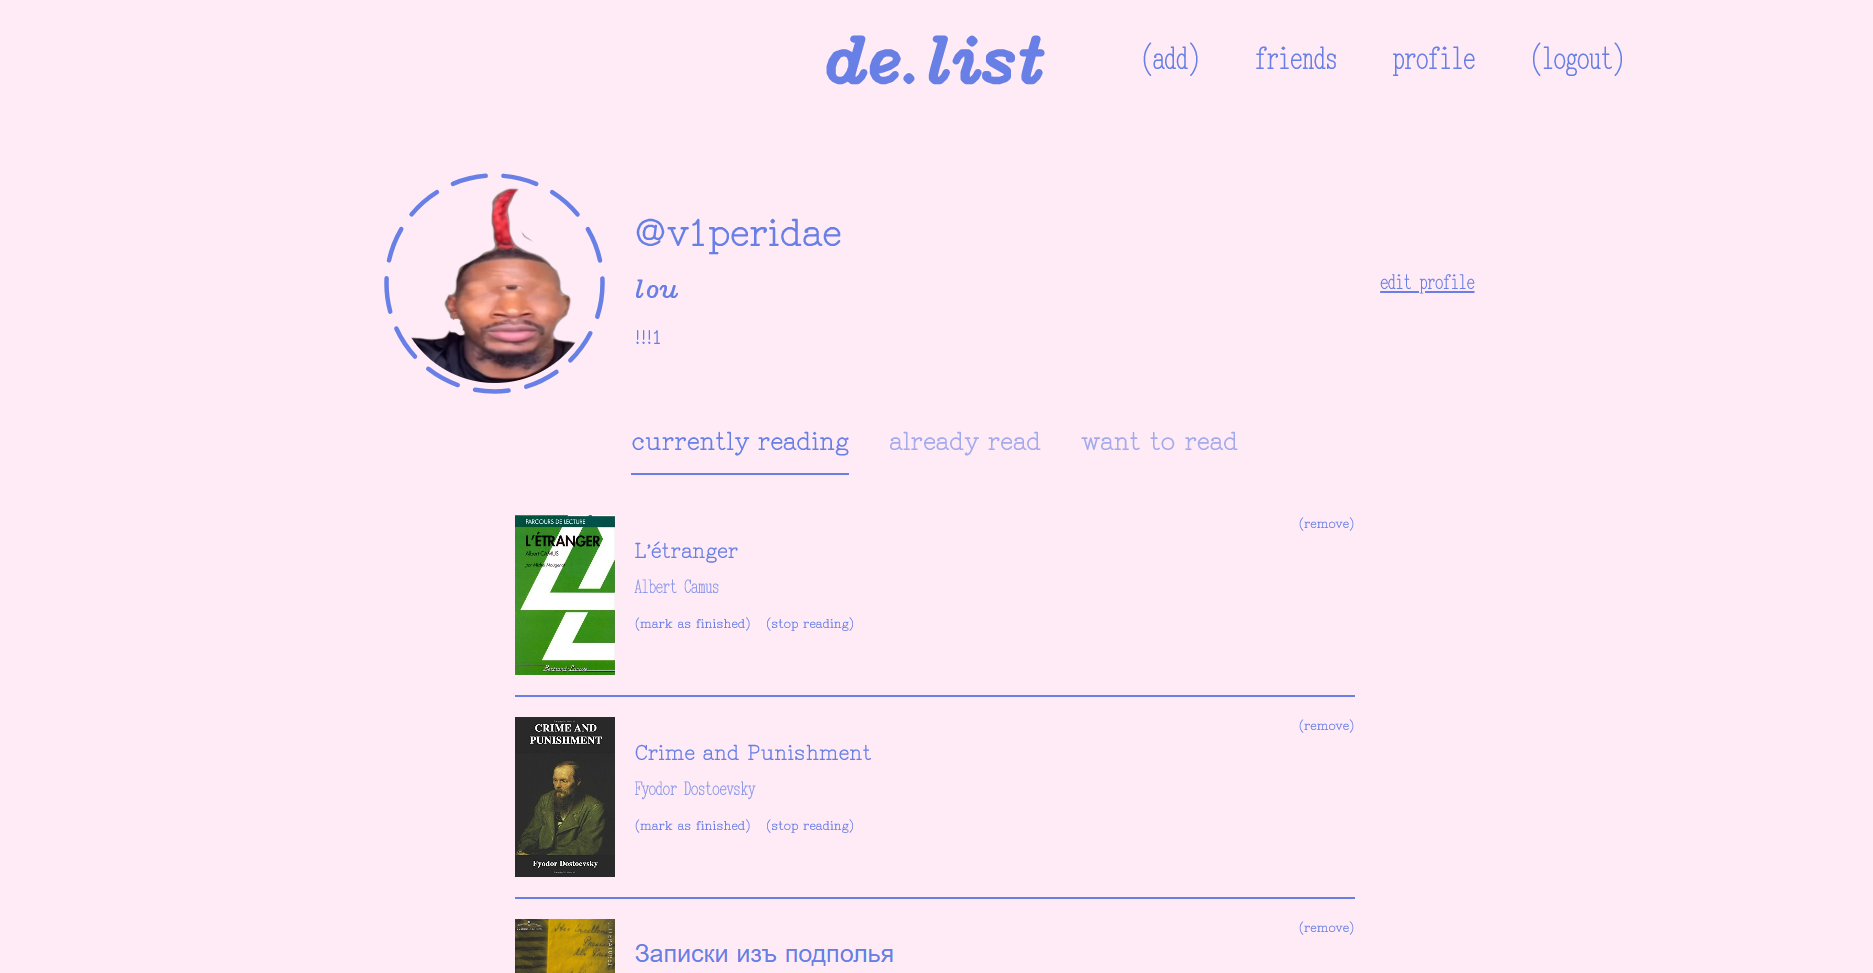
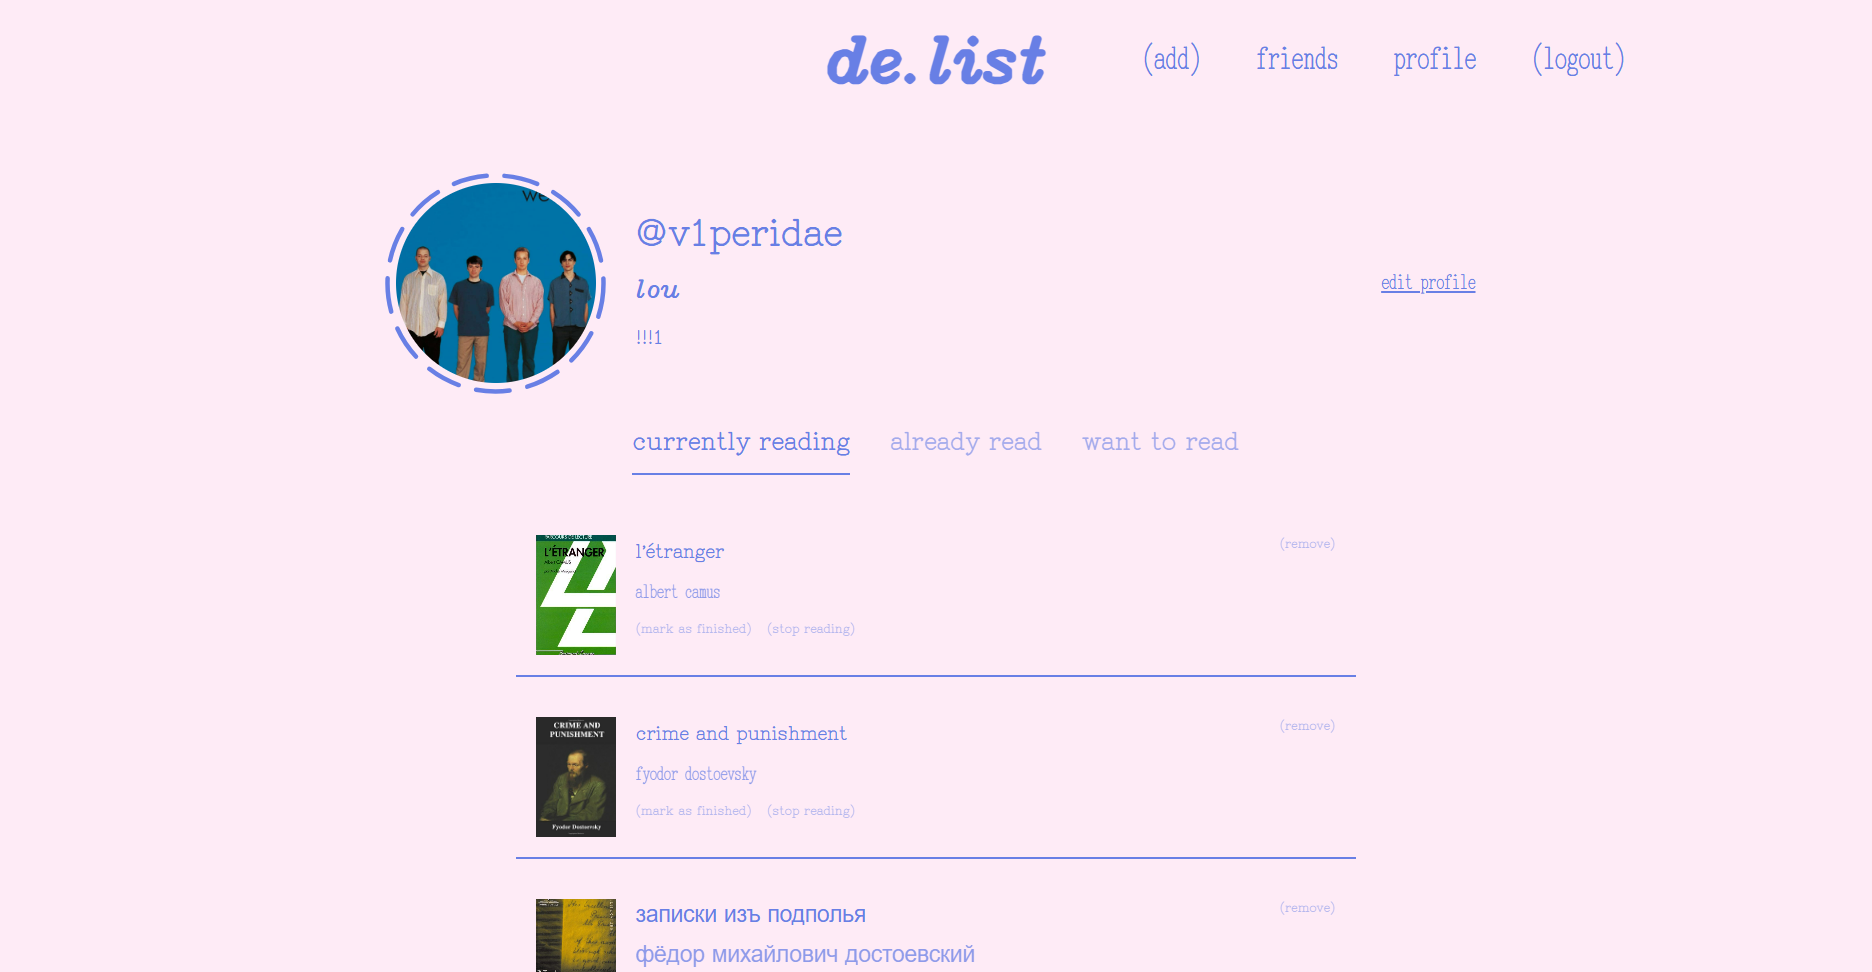
readme :)

diff --git a/README.md b/README.md
@@ -24,6 +24,8 @@ i built it because i have a hard time using goodreads and i really wanted to do 
 
 ![](breh/image1.png)
 
+> who doesn't like profile customisation :P
+
 ### have a sick friend code !! pssst...please add me, i want friends! </3
 
 ![](breh/image2.png)
@@ -34,11 +36,13 @@ i built it because i have a hard time using goodreads and i really wanted to do 
 
 ![](breh/image3.png)
 
+> and their reviews on the cool stuff they're reading too!
+
 ### nerd stuff?? :P
 
 built with astro, react, tailwind<br>
-postgres via prisma, my beloved<br>
-firebase for auth
+postgres via prisma my beloved<br>
+1/2 asleep lou and now current lou regrets what they did
 
 ### if you wanna run it locally....
 
